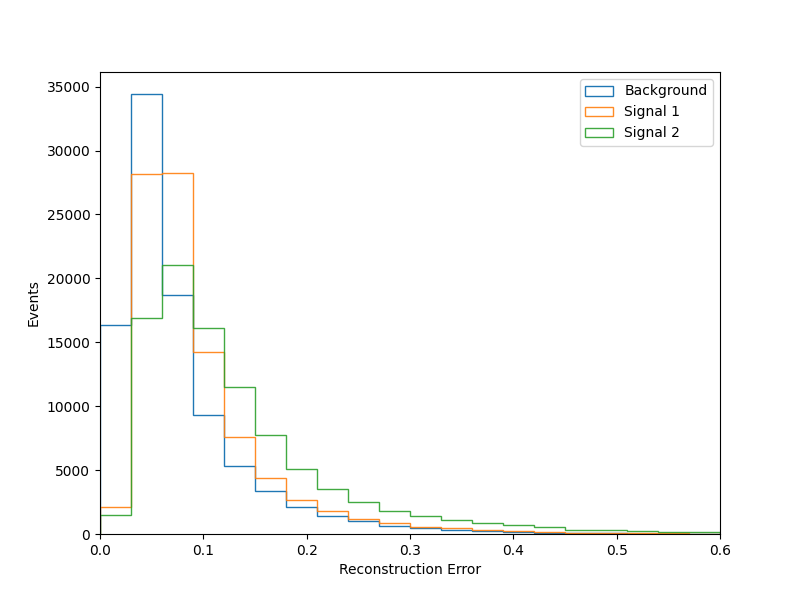
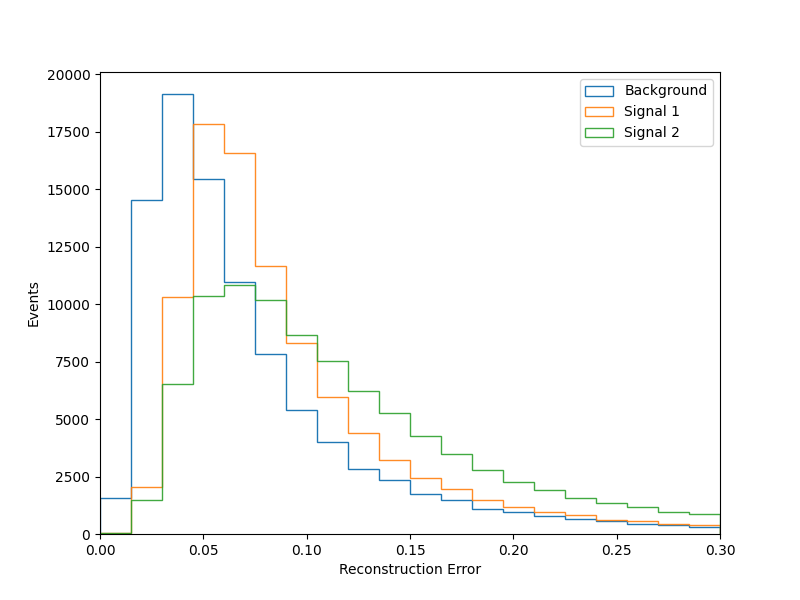
Testing with standard scaling and 84, 14 layer dimensions

diff --git a/test.py b/test.py
@@ -131,12 +131,12 @@ loss_sig2_total = loss_sig2.sum(axis=1) / 42
 # Plot Total Reconstruction Error
 nbins = 20
 fig, axes = plt.subplots(figsize=(8,6))
-axes.hist([loss_bkg_total], nbins, range=(0, 0.6), density=0, histtype='step', label=['Background'], stacked=True, alpha=1)
-axes.hist([loss_sig1_total], nbins, range=(0, 0.6), density=0, histtype='step', label=['Signal 1'], stacked=True, alpha=0.9)
-axes.hist([loss_sig2_total], nbins, range=(0, 0.6), density=0, histtype='step', label=['Signal 2'], stacked=True, alpha=0.9)
+axes.hist([loss_bkg_total], nbins, range=(0, 0.3), density=0, histtype='step', label=['Background'], stacked=True, alpha=1)
+axes.hist([loss_sig1_total], nbins, range=(0, 0.3), density=0, histtype='step', label=['Signal 1'], stacked=True, alpha=0.9)
+axes.hist([loss_sig2_total], nbins, range=(0, 0.3), density=0, histtype='step', label=['Signal 2'], stacked=True, alpha=0.9)
 axes.set_xlabel(r"Reconstruction Error")
 axes.set_ylabel("Events")
-axes.set_xlim(0, 0.6)
+axes.set_xlim(0, 0.3)
 axes.legend(loc='upper right')
 fig.savefig(f"figs/testing/reconstruction_error_{scale}_{mid_dim}_{latent_dim}.png")
 
